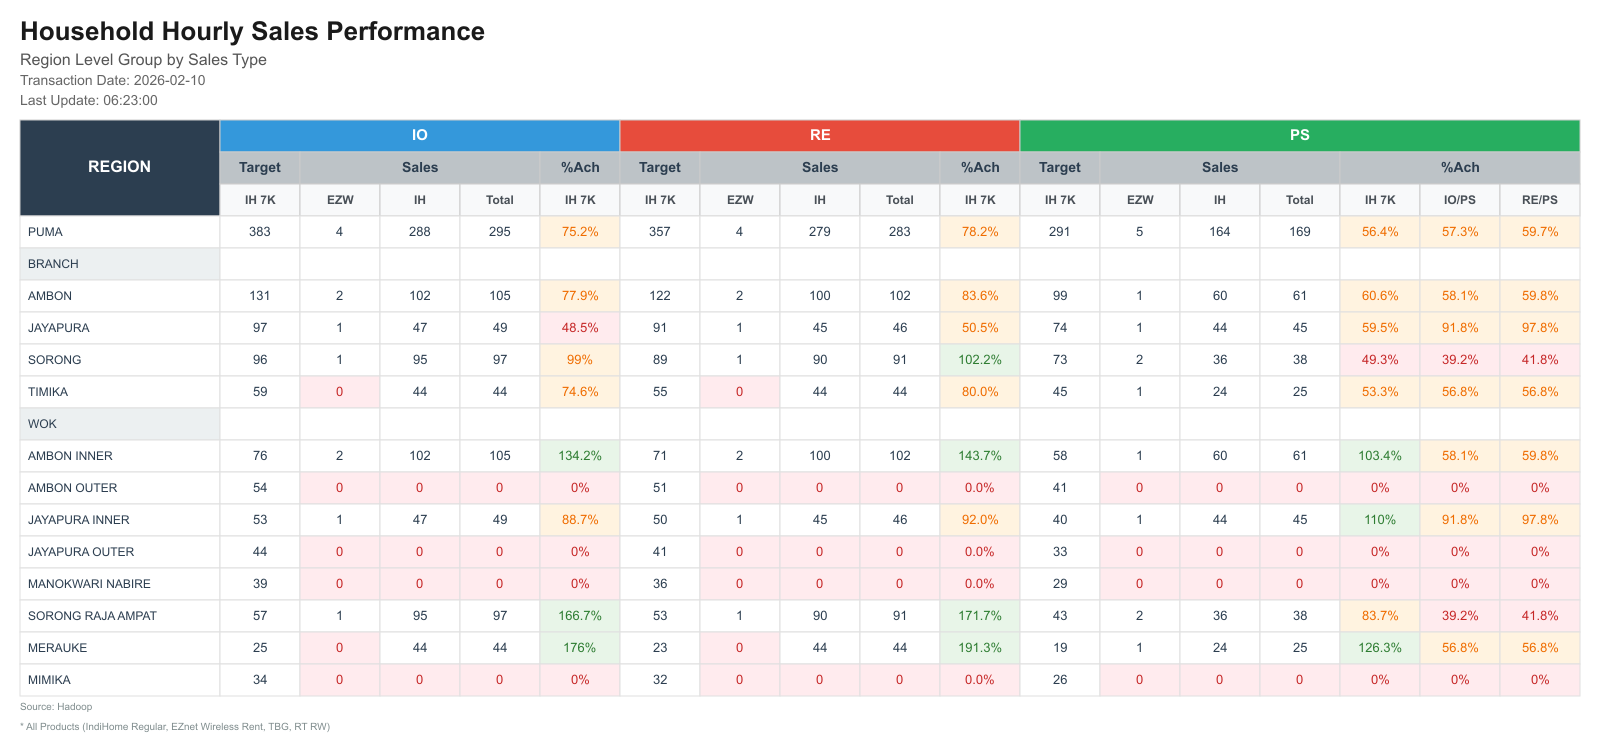
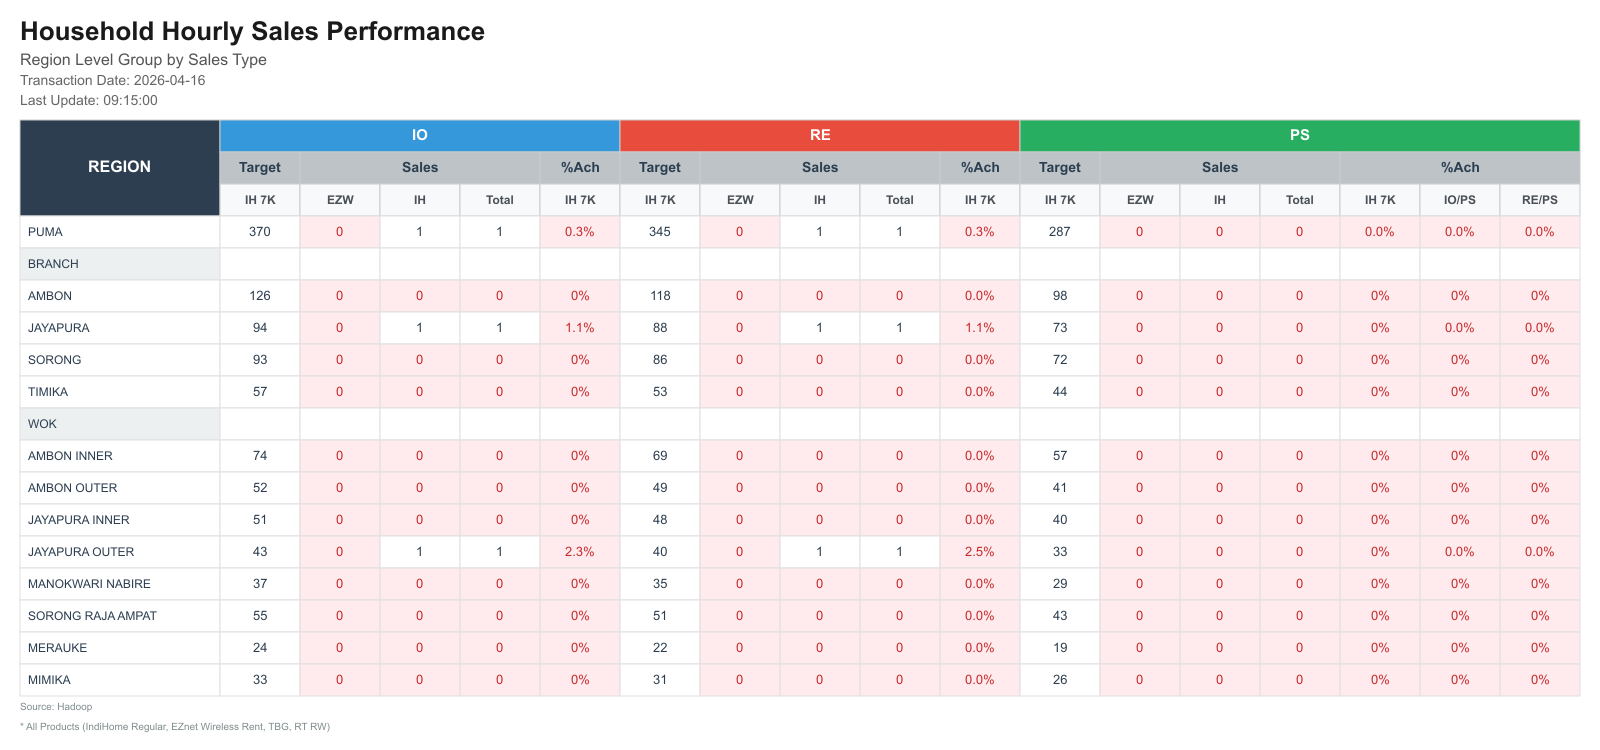
new cron

diff --git a/index.ts b/index.ts
@@ -7,6 +7,7 @@ import { format, subHours, startOfDay, endOfDay, subDays, isWeekend, startOfMont
 import { HttpsProxyAgent } from 'https-proxy-agent'
 import fs from 'fs'
 import path from 'path'
+
 import { generateSalesTable, calculatePercentage, type RowData } from "./lib/utils";
 
 config({ path: ".env" })
@@ -21,7 +22,10 @@ const bot = new TelegramBot(token, {
 
 const auth = new google.auth.GoogleAuth({
     keyFile: './cedar-kiln-460702-f0-8e6f032914b1.json',
-    scopes: ['https://www.googleapis.com/auth/spreadsheets']
+    scopes: [
+        'https://www.googleapis.com/auth/spreadsheets',
+        'https://www.googleapis.com/auth/drive.readonly'
+    ]
 })
 
 const SHEET_ID = process.env.SHEET_ID as string
@@ -101,6 +105,77 @@ async function clearSheet(range: string): Promise<any> {
         console.error('Error writing to sheet:', error);
         throw error;
     }
+}
+
+const sleep = (ms: number) => new Promise(resolve => setTimeout(resolve, ms));
+
+async function exportSheetAsPDF(gid: string = '0'): Promise<Buffer> {
+    const accessToken = await auth.getAccessToken();
+
+    if (!accessToken) {
+        throw new Error('Failed to obtain access token from Google Auth');
+    }
+
+    // A1:AU50 → r1=1, c1=1, r2=50, c2=47 (AU is the 47th column)
+    const params = new URLSearchParams({
+        format: 'pdf',
+        gid,
+        scale: '2',
+        portrait: 'false',
+        fitw: 'true',
+        gridlines: 'false',
+        printtitle: 'false',
+        sheetnames: 'false',
+        pagenum: 'UNDEFINED',
+        fzr: 'false',
+        top_margin: '0.10',
+        bottom_margin: '0.10',
+        left_margin: '0.10',
+        right_margin: '0.10',
+        // --- Range restriction: A1:AU50 ---
+        r1: '0',   // start row (0-indexed in export params)
+        c1: '0',   // start col
+        r2: '49',  // end row (row 50, 0-indexed)
+        c2: '46',  // end col (AU = col 47, 0-indexed = 46)
+    });
+
+    const exportUrl = `https://docs.google.com/spreadsheets/d/${SHEET_ID}/export` +
+        `?format=pdf` +
+        `&size=29x12` +
+        `&scale=2` +
+        `&portrait=false` +     // Landscape is better for A:AU
+        `&fitw=true` +
+        `&top_margin=0.01&bottom_margin=0.01&left_margin=0.01&right_margin=0.01` +
+        `&sheetnames=false&printtitle=false&pagenum=UNDEFINED` +
+        `&gridlines=false&fzr=false` +
+        `&gid=${gid}` +
+        `&r1=0&c1=0&r2=50&c2=46`;
+
+
+    const response = await fetch(exportUrl, {
+        headers: { Authorization: `Bearer ${accessToken}` },
+    });
+
+    if (!response.ok) {
+        const body = await response.text();
+        throw new Error(`Failed to export sheet: ${response.status} — ${body}`);
+    }
+
+    const arrayBuffer = await response.arrayBuffer();
+    const pdfBuffer = Buffer.from(arrayBuffer);
+    console.log(`PDF exported: ${pdfBuffer.byteLength} bytes`);
+    return pdfBuffer;
+}
+
+async function getLastRow(sheetName: string = 'Sheet1'): Promise<number> {
+    const sheets = google.sheets({ version: 'v4', auth: auth });
+
+    const response = await sheets.spreadsheets.values.get({
+        spreadsheetId: SHEET_ID,
+        range: `${sheetName}!A:A`, // check column A for last filled row
+    });
+
+    return response.data.values?.length ?? 1;
 }
 
 // Function to fetch data and send message
@@ -650,6 +725,58 @@ ${formattedPsWok}\n</code></pre>
     }
 }
 
+async function sendScheduledCapturedImageMessage(chatId: string) {
+    try {
+        const pdfBuffer = await exportSheetAsPDF('840796662');
+
+        const imageArrayBuffer = pdfBuffer.buffer
+        const imageBuffer = Buffer.from(imageArrayBuffer);
+
+        const ids = chatId.split(',')
+        const sentTo: string[] = []
+
+        for (const id of ids) {
+            if (!id || sentTo.includes(id)) continue;
+
+            try {
+                const threadId = id.includes('/') ? id.split('/')[1] : undefined;
+                if (threadId) {
+                    const photoMsg = await bot.sendPhoto(id, imageBuffer, { caption: '📊 SUMMARY PERFORMANCE REGION PUMA!', message_thread_id: parseInt(threadId) });
+                    await bot.sendDocument(
+                        id,
+                        pdfBuffer,
+                        { caption: `Sheet Report`, message_thread_id: parseInt(threadId), reply_to_message_id: photoMsg.message_id },
+                        {
+                            filename: 'Spreadsheet_Export.pdf',
+                            contentType: 'application/pdf',
+
+                        }
+                    );
+                    sentTo.push(id)
+                    return
+                }
+                const photoMsg = await bot.sendPhoto(id, imageBuffer, { caption: '📊 SUMMARY PERFORMANCE REGION PUMA' });
+                await bot.sendDocument(
+                    id,
+                    pdfBuffer,
+                    { caption: `Sheet Report`, reply_to_message_id: photoMsg.message_id },
+                    {
+                        filename: 'Spreadsheet_Export.pdf',
+                        contentType: 'application/pdf'
+                    }
+                );
+                sentTo.push(id)
+            } catch (error) {
+                console.error("Error sending message to chatId " + id + ": ", error);
+            }
+        }
+
+        console.log('Successfully sent to Telegram!');
+    } catch (err) {
+        console.error('Job failed:', err);
+    }
+}
+
 bot.onText(/\/start/, async (msg) => {
     const chatId = msg.chat.id;
     bot.sendMessage(chatId, "Hi", { parse_mode: 'HTML' });
@@ -658,6 +785,11 @@ bot.onText(/\/start/, async (msg) => {
 bot.onText(/\/check_ps/, async (msg) => {
     const chatId = msg.chat.id;
     sendScheduledMessage(chatId.toString());
+});
+
+bot.onText(/\/check_sheet/, async (msg) => {
+    const chatId = msg.chat.id;
+    sendScheduledCapturedImageMessage(chatId.toString());
 });
 
 bot.onText(/\/check_id/, async (msg) => {
@@ -670,8 +802,15 @@ bot.onText(/\/check_id/, async (msg) => {
 // Schedule the message to be sent every 1 hours
 cron.schedule('15 8,10-23 * * *', () => {
     console.log('Running scheduled task at', new Date().toISOString());
-    const id = TARGET_CHAT_IDS
-    sendScheduledMessage(id);
+    sendScheduledMessage(TARGET_CHAT_IDS);
+}, { timezone: 'Asia/Tokyo' });
+
+// Schedule the message to be sent every 1 hours
+cron.schedule('0 15,18,20 * * *', () => {
+    console.log('Running scheduled task at', new Date().toISOString());
+    const TARGET_CHAT_IDS = "1515251812,916698330,-1002905256400/5384"
+    sendScheduledCapturedImageMessage(TARGET_CHAT_IDS);
+
 }, { timezone: 'Asia/Tokyo' });
 
 // Gracefully close the pool on process termination
